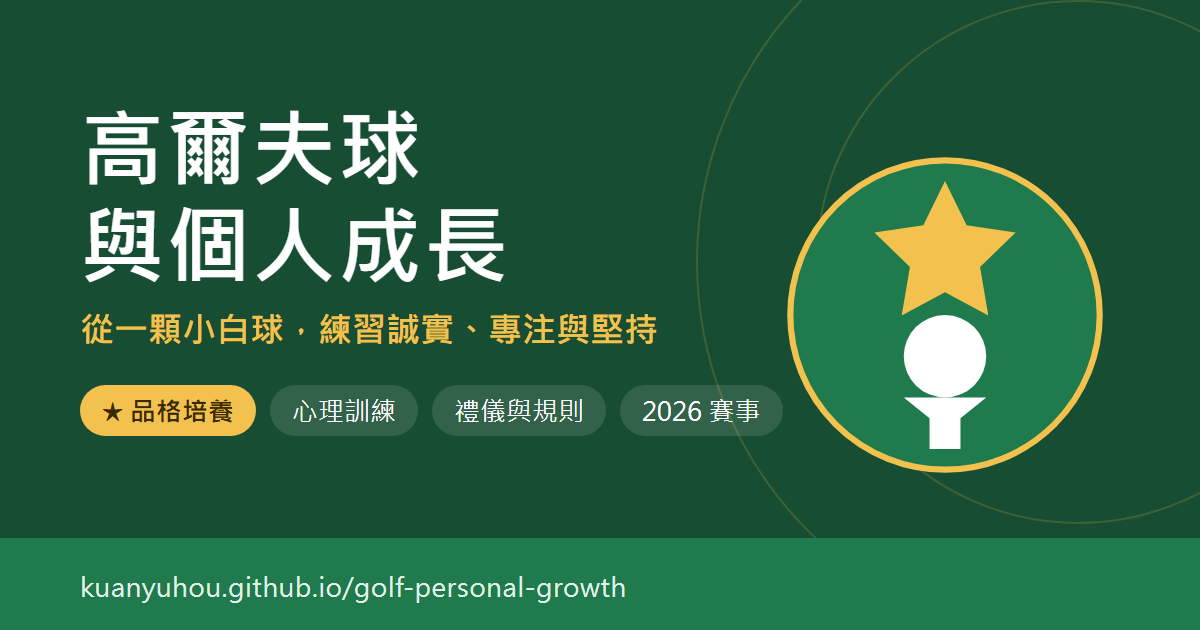
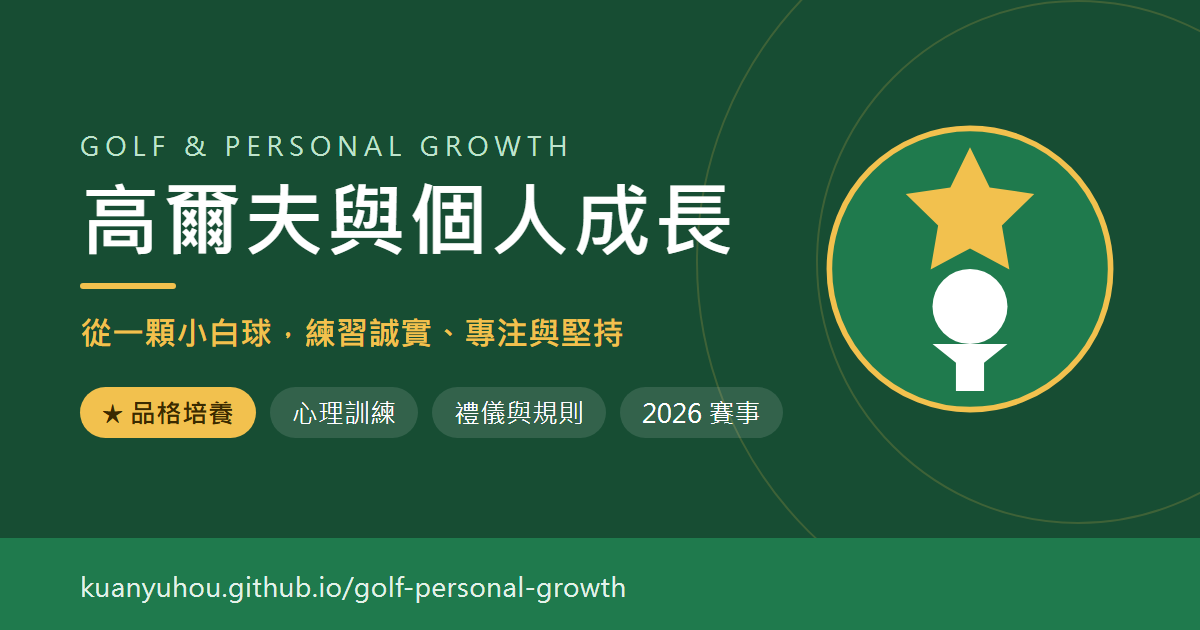
Retitle OG image to 高爾夫與個人成長 and re-layout

diff --git a/og/og.html b/og/og.html
@@ -14,15 +14,16 @@
   .r1 { width: 760px; height: 760px; right: -260px; top: -120px; }
   .r2 { width: 520px; height: 520px; right: -140px; top: 0; }
   .green { position: absolute; left: 0; right: 0; bottom: 0; height: 92px; background: #1f7a4d; }
-  .wrap { position: absolute; left: 80px; top: 70px; right: 80px; }
-  .icon { width: 132px; height: 132px; }
-  h1 { font-size: 84px; line-height: 1.15; margin: 28px 0 14px; letter-spacing: 2px; font-weight: 700; }
-  .tag { font-size: 34px; color: #f2c14e; margin: 0 0 34px; font-weight: 700; }
+  .wrap { position: absolute; left: 80px; top: 128px; right: 80px; }
+  .kicker { font-size: 26px; color: #bfe3cc; letter-spacing: 6px; margin: 0 0 6px; }
+  h1 { font-size: 80px; line-height: 1.2; margin: 0 0 18px; letter-spacing: 2px; font-weight: 700; white-space: nowrap; }
+  .bar { width: 96px; height: 6px; border-radius: 3px; background: #f2c14e; margin: 0 0 22px; }
+  .tag { font-size: 32px; color: #f2c14e; margin: 0 0 34px; font-weight: 700; }
   .pills { display: flex; gap: 14px; flex-wrap: wrap; }
   .pill { font-size: 26px; padding: 8px 22px; border-radius: 999px; background: rgba(255,255,255,.12); }
   .pill.star { background: #f2c14e; color: #3a2a00; font-weight: 700; }
   .url { position: absolute; left: 80px; bottom: 26px; font-size: 26px; color: #e3f2e9; letter-spacing: .5px; }
-  .big { position: absolute; right: 90px; top: 150px; width: 330px; height: 330px; }
+  .big { position: absolute; right: 80px; top: 119px; width: 300px; height: 300px; }
 </style>
 </head>
 <body>
@@ -30,7 +31,9 @@
   <div class="green"></div>
   <svg class="big" viewBox="0 0 64 64" aria-hidden="true"><circle cx="32" cy="32" r="30" fill="#1f7a4d" stroke="#f2c14e" stroke-width="1.2"/><path d="M32 6l4.2 8.6 9.5 1.4-6.9 6.7 1.6 9.4L32 27.6l-8.4 4.5 1.6-9.4-6.9-6.7 9.5-1.4z" fill="#f2c14e"/><circle cx="32" cy="40" r="8" fill="#fff"/><path d="M24 48h16l-5 4v6h-6v-6z" fill="#fff"/></svg>
   <div class="wrap">
-    <h1>高爾夫球<br>與個人成長</h1>
+    <p class="kicker">GOLF &amp; PERSONAL GROWTH</p>
+    <h1>高爾夫與個人成長</h1>
+    <div class="bar"></div>
     <p class="tag">從一顆小白球，練習誠實、專注與堅持</p>
     <div class="pills">
       <span class="pill star">★ 品格培養</span>

diff --git a/character.html b/character.html
@@ -12,14 +12,14 @@
 <meta property="og:title" content="高爾夫培養品格｜高爾夫球與個人成長">
 <meta property="og:description" content="高爾夫如何培養誠實、正直、尊重、責任感、自律、耐心與運動家精神，附職業球壇經典故事與家長指南。">
 <meta property="og:url" content="https://kuanyuhou.github.io/golf-personal-growth/character.html">
-<meta property="og:image" content="https://kuanyuhou.github.io/golf-personal-growth/og-image.png">
+<meta property="og:image" content="https://kuanyuhou.github.io/golf-personal-growth/og-image.png?v=2">
 <meta property="og:image:width" content="1200">
 <meta property="og:image:height" content="630">
-<meta property="og:image:alt" content="高爾夫球與個人成長：從一顆小白球，練習誠實、專注與堅持">
+<meta property="og:image:alt" content="高爾夫與個人成長：從一顆小白球，練習誠實、專注與堅持">
 <meta name="twitter:card" content="summary_large_image">
 <meta name="twitter:title" content="高爾夫培養品格｜高爾夫球與個人成長">
 <meta name="twitter:description" content="高爾夫如何培養誠實、正直、尊重、責任感、自律、耐心與運動家精神，附職業球壇經典故事與家長指南。">
-<meta name="twitter:image" content="https://kuanyuhou.github.io/golf-personal-growth/og-image.png">
+<meta name="twitter:image" content="https://kuanyuhou.github.io/golf-personal-growth/og-image.png?v=2">
 <link rel="stylesheet" href="style.css">
 </head>
 <body>

diff --git a/courses.html b/courses.html
@@ -12,14 +12,14 @@
 <meta property="og:title" content="各國高爾夫球場數量｜高爾夫球與個人成長">
 <meta property="og:description" content="台灣、日本、韓國、美國、中國大陸、越南、泰國、英國、澳洲、紐西蘭與馬來西亞的球場數量比較。">
 <meta property="og:url" content="https://kuanyuhou.github.io/golf-personal-growth/courses.html">
-<meta property="og:image" content="https://kuanyuhou.github.io/golf-personal-growth/og-image.png">
+<meta property="og:image" content="https://kuanyuhou.github.io/golf-personal-growth/og-image.png?v=2">
 <meta property="og:image:width" content="1200">
 <meta property="og:image:height" content="630">
-<meta property="og:image:alt" content="高爾夫球與個人成長：從一顆小白球，練習誠實、專注與堅持">
+<meta property="og:image:alt" content="高爾夫與個人成長：從一顆小白球，練習誠實、專注與堅持">
 <meta name="twitter:card" content="summary_large_image">
 <meta name="twitter:title" content="各國高爾夫球場數量｜高爾夫球與個人成長">
 <meta name="twitter:description" content="台灣、日本、韓國、美國、中國大陸、越南、泰國、英國、澳洲、紐西蘭與馬來西亞的球場數量比較。">
-<meta name="twitter:image" content="https://kuanyuhou.github.io/golf-personal-growth/og-image.png">
+<meta name="twitter:image" content="https://kuanyuhou.github.io/golf-personal-growth/og-image.png?v=2">
 <link rel="stylesheet" href="style.css">
 </head>
 <body>

diff --git a/formats.html b/formats.html
@@ -12,14 +12,14 @@
 <meta property="og:title" content="比桿賽、比洞賽與差點｜高爾夫球與個人成長">
 <meta property="og:description" content="比桿賽與比洞賽的規則差異、團體賽形式，以及世界差點系統和新新貝利亞制的計算方式。">
 <meta property="og:url" content="https://kuanyuhou.github.io/golf-personal-growth/formats.html">
-<meta property="og:image" content="https://kuanyuhou.github.io/golf-personal-growth/og-image.png">
+<meta property="og:image" content="https://kuanyuhou.github.io/golf-personal-growth/og-image.png?v=2">
 <meta property="og:image:width" content="1200">
 <meta property="og:image:height" content="630">
-<meta property="og:image:alt" content="高爾夫球與個人成長：從一顆小白球，練習誠實、專注與堅持">
+<meta property="og:image:alt" content="高爾夫與個人成長：從一顆小白球，練習誠實、專注與堅持">
 <meta name="twitter:card" content="summary_large_image">
 <meta name="twitter:title" content="比桿賽、比洞賽與差點｜高爾夫球與個人成長">
 <meta name="twitter:description" content="比桿賽與比洞賽的規則差異、團體賽形式，以及世界差點系統和新新貝利亞制的計算方式。">
-<meta name="twitter:image" content="https://kuanyuhou.github.io/golf-personal-growth/og-image.png">
+<meta name="twitter:image" content="https://kuanyuhou.github.io/golf-personal-growth/og-image.png?v=2">
 <link rel="stylesheet" href="style.css">
 </head>
 <body>

diff --git a/fitness.html b/fitness.html
@@ -12,14 +12,14 @@
 <meta property="og:title" content="熱身、營養與體能訓練｜高爾夫球與個人成長">
 <meta property="og:description" content="下場前的熱身、飲食補水、營養補充品，以及準備期的柔軟度、肌力與爆發力訓練。">
 <meta property="og:url" content="https://kuanyuhou.github.io/golf-personal-growth/fitness.html">
-<meta property="og:image" content="https://kuanyuhou.github.io/golf-personal-growth/og-image.png">
+<meta property="og:image" content="https://kuanyuhou.github.io/golf-personal-growth/og-image.png?v=2">
 <meta property="og:image:width" content="1200">
 <meta property="og:image:height" content="630">
-<meta property="og:image:alt" content="高爾夫球與個人成長：從一顆小白球，練習誠實、專注與堅持">
+<meta property="og:image:alt" content="高爾夫與個人成長：從一顆小白球，練習誠實、專注與堅持">
 <meta name="twitter:card" content="summary_large_image">
 <meta name="twitter:title" content="熱身、營養與體能訓練｜高爾夫球與個人成長">
 <meta name="twitter:description" content="下場前的熱身、飲食補水、營養補充品，以及準備期的柔軟度、肌力與爆發力訓練。">
-<meta name="twitter:image" content="https://kuanyuhou.github.io/golf-personal-growth/og-image.png">
+<meta name="twitter:image" content="https://kuanyuhou.github.io/golf-personal-growth/og-image.png?v=2">
 <link rel="stylesheet" href="style.css">
 </head>
 <body>

diff --git a/equipment.html b/equipment.html
@@ -12,14 +12,14 @@
 <meta property="og:title" content="球桿與高爾夫球｜高爾夫球與個人成長">
 <meta property="og:description" content="木桿、混血桿、鐵桿、挖起桿、推桿、桿身與握把，以及高爾夫球的規格、結構與選擇。">
 <meta property="og:url" content="https://kuanyuhou.github.io/golf-personal-growth/equipment.html">
-<meta property="og:image" content="https://kuanyuhou.github.io/golf-personal-growth/og-image.png">
+<meta property="og:image" content="https://kuanyuhou.github.io/golf-personal-growth/og-image.png?v=2">
 <meta property="og:image:width" content="1200">
 <meta property="og:image:height" content="630">
-<meta property="og:image:alt" content="高爾夫球與個人成長：從一顆小白球，練習誠實、專注與堅持">
+<meta property="og:image:alt" content="高爾夫與個人成長：從一顆小白球，練習誠實、專注與堅持">
 <meta name="twitter:card" content="summary_large_image">
 <meta name="twitter:title" content="球桿與高爾夫球｜高爾夫球與個人成長">
 <meta name="twitter:description" content="木桿、混血桿、鐵桿、挖起桿、推桿、桿身與握把，以及高爾夫球的規格、結構與選擇。">
-<meta name="twitter:image" content="https://kuanyuhou.github.io/golf-personal-growth/og-image.png">
+<meta name="twitter:image" content="https://kuanyuhou.github.io/golf-personal-growth/og-image.png?v=2">
 <link rel="stylesheet" href="style.css">
 </head>
 <body>

diff --git a/health.html b/health.html
@@ -12,14 +12,14 @@
 <meta property="og:title" content="身心益處、防曬與眼睛保護｜高爾夫球與個人成長">
 <meta property="og:description" content="高爾夫對身體、心理與社交的好處，以及防曬和眼睛保護的完整建議。">
 <meta property="og:url" content="https://kuanyuhou.github.io/golf-personal-growth/health.html">
-<meta property="og:image" content="https://kuanyuhou.github.io/golf-personal-growth/og-image.png">
+<meta property="og:image" content="https://kuanyuhou.github.io/golf-personal-growth/og-image.png?v=2">
 <meta property="og:image:width" content="1200">
 <meta property="og:image:height" content="630">
-<meta property="og:image:alt" content="高爾夫球與個人成長：從一顆小白球，練習誠實、專注與堅持">
+<meta property="og:image:alt" content="高爾夫與個人成長：從一顆小白球，練習誠實、專注與堅持">
 <meta name="twitter:card" content="summary_large_image">
 <meta name="twitter:title" content="身心益處、防曬與眼睛保護｜高爾夫球與個人成長">
 <meta name="twitter:description" content="高爾夫對身體、心理與社交的好處，以及防曬和眼睛保護的完整建議。">
-<meta name="twitter:image" content="https://kuanyuhou.github.io/golf-personal-growth/og-image.png">
+<meta name="twitter:image" content="https://kuanyuhou.github.io/golf-personal-growth/og-image.png?v=2">
 <link rel="stylesheet" href="style.css">
 </head>
 <body>

diff --git a/mental.html b/mental.html
@@ -12,14 +12,14 @@
 <meta property="og:title" content="高爾夫心理訓練｜高爾夫球與個人成長">
 <meta property="og:description" content="擊球前例行程序、呼吸法、意象訓練、自我對話、壓力管理與每週心理訓練計畫。">
 <meta property="og:url" content="https://kuanyuhou.github.io/golf-personal-growth/mental.html">
-<meta property="og:image" content="https://kuanyuhou.github.io/golf-personal-growth/og-image.png">
+<meta property="og:image" content="https://kuanyuhou.github.io/golf-personal-growth/og-image.png?v=2">
 <meta property="og:image:width" content="1200">
 <meta property="og:image:height" content="630">
-<meta property="og:image:alt" content="高爾夫球與個人成長：從一顆小白球，練習誠實、專注與堅持">
+<meta property="og:image:alt" content="高爾夫與個人成長：從一顆小白球，練習誠實、專注與堅持">
 <meta name="twitter:card" content="summary_large_image">
 <meta name="twitter:title" content="高爾夫心理訓練｜高爾夫球與個人成長">
 <meta name="twitter:description" content="擊球前例行程序、呼吸法、意象訓練、自我對話、壓力管理與每週心理訓練計畫。">
-<meta name="twitter:image" content="https://kuanyuhou.github.io/golf-personal-growth/og-image.png">
+<meta name="twitter:image" content="https://kuanyuhou.github.io/golf-personal-growth/og-image.png?v=2">
 <link rel="stylesheet" href="style.css">
 </head>
 <body>

diff --git a/turf.html b/turf.html
@@ -12,14 +12,14 @@
 <meta property="og:title" content="球場草種與南部球場｜高爾夫球與個人成長">
 <meta property="og:description" content="冷季草與暖季草、各區域常見草種，以及台灣南部各球場的果嶺草種整理。">
 <meta property="og:url" content="https://kuanyuhou.github.io/golf-personal-growth/turf.html">
-<meta property="og:image" content="https://kuanyuhou.github.io/golf-personal-growth/og-image.png">
+<meta property="og:image" content="https://kuanyuhou.github.io/golf-personal-growth/og-image.png?v=2">
 <meta property="og:image:width" content="1200">
 <meta property="og:image:height" content="630">
-<meta property="og:image:alt" content="高爾夫球與個人成長：從一顆小白球，練習誠實、專注與堅持">
+<meta property="og:image:alt" content="高爾夫與個人成長：從一顆小白球，練習誠實、專注與堅持">
 <meta name="twitter:card" content="summary_large_image">
 <meta name="twitter:title" content="球場草種與南部球場｜高爾夫球與個人成長">
 <meta name="twitter:description" content="冷季草與暖季草、各區域常見草種，以及台灣南部各球場的果嶺草種整理。">
-<meta name="twitter:image" content="https://kuanyuhou.github.io/golf-personal-growth/og-image.png">
+<meta name="twitter:image" content="https://kuanyuhou.github.io/golf-personal-growth/og-image.png?v=2">
 <link rel="stylesheet" href="style.css">
 </head>
 <body>

diff --git a/index.html b/index.html
@@ -12,14 +12,14 @@
 <meta property="og:title" content="高爾夫球與個人成長">
 <meta property="og:description" content="高爾夫球入門、品格培養、心理訓練、禮儀、規則、裝備、健康與 2026 年賽事資訊的完整整理。">
 <meta property="og:url" content="https://kuanyuhou.github.io/golf-personal-growth/">
-<meta property="og:image" content="https://kuanyuhou.github.io/golf-personal-growth/og-image.png">
+<meta property="og:image" content="https://kuanyuhou.github.io/golf-personal-growth/og-image.png?v=2">
 <meta property="og:image:width" content="1200">
 <meta property="og:image:height" content="630">
-<meta property="og:image:alt" content="高爾夫球與個人成長：從一顆小白球，練習誠實、專注與堅持">
+<meta property="og:image:alt" content="高爾夫與個人成長：從一顆小白球，練習誠實、專注與堅持">
 <meta name="twitter:card" content="summary_large_image">
 <meta name="twitter:title" content="高爾夫球與個人成長">
 <meta name="twitter:description" content="高爾夫球入門、品格培養、心理訓練、禮儀、規則、裝備、健康與 2026 年賽事資訊的完整整理。">
-<meta name="twitter:image" content="https://kuanyuhou.github.io/golf-personal-growth/og-image.png">
+<meta name="twitter:image" content="https://kuanyuhou.github.io/golf-personal-growth/og-image.png?v=2">
 <link rel="stylesheet" href="style.css">
 </head>
 <body>

diff --git a/etiquette.html b/etiquette.html
@@ -12,14 +12,14 @@
 <meta property="og:title" content="服裝、帽子與時間禮儀｜高爾夫球與個人成長">
 <meta property="og:description" content="高爾夫服裝禮儀、帽子選擇，以及準時與打球速度的時間禮儀。">
 <meta property="og:url" content="https://kuanyuhou.github.io/golf-personal-growth/etiquette.html">
-<meta property="og:image" content="https://kuanyuhou.github.io/golf-personal-growth/og-image.png">
+<meta property="og:image" content="https://kuanyuhou.github.io/golf-personal-growth/og-image.png?v=2">
 <meta property="og:image:width" content="1200">
 <meta property="og:image:height" content="630">
-<meta property="og:image:alt" content="高爾夫球與個人成長：從一顆小白球，練習誠實、專注與堅持">
+<meta property="og:image:alt" content="高爾夫與個人成長：從一顆小白球，練習誠實、專注與堅持">
 <meta name="twitter:card" content="summary_large_image">
 <meta name="twitter:title" content="服裝、帽子與時間禮儀｜高爾夫球與個人成長">
 <meta name="twitter:description" content="高爾夫服裝禮儀、帽子選擇，以及準時與打球速度的時間禮儀。">
-<meta name="twitter:image" content="https://kuanyuhou.github.io/golf-personal-growth/og-image.png">
+<meta name="twitter:image" content="https://kuanyuhou.github.io/golf-personal-growth/og-image.png?v=2">
 <link rel="stylesheet" href="style.css">
 </head>
 <body>

diff --git a/tours.html b/tours.html
@@ -12,14 +12,14 @@
 <meta property="og:title" content="2026 年職業賽事｜高爾夫球與個人成長">
 <meta property="og:description" content="2026 年 TPGA、TLPGA、LPGA、PGA Tour、DP World Tour 與亞洲巡迴賽的賽程與重點。">
 <meta property="og:url" content="https://kuanyuhou.github.io/golf-personal-growth/tours.html">
-<meta property="og:image" content="https://kuanyuhou.github.io/golf-personal-growth/og-image.png">
+<meta property="og:image" content="https://kuanyuhou.github.io/golf-personal-growth/og-image.png?v=2">
 <meta property="og:image:width" content="1200">
 <meta property="og:image:height" content="630">
-<meta property="og:image:alt" content="高爾夫球與個人成長：從一顆小白球，練習誠實、專注與堅持">
+<meta property="og:image:alt" content="高爾夫與個人成長：從一顆小白球，練習誠實、專注與堅持">
 <meta name="twitter:card" content="summary_large_image">
 <meta name="twitter:title" content="2026 年職業賽事｜高爾夫球與個人成長">
 <meta name="twitter:description" content="2026 年 TPGA、TLPGA、LPGA、PGA Tour、DP World Tour 與亞洲巡迴賽的賽程與重點。">
-<meta name="twitter:image" content="https://kuanyuhou.github.io/golf-personal-growth/og-image.png">
+<meta name="twitter:image" content="https://kuanyuhou.github.io/golf-personal-growth/og-image.png?v=2">
 <link rel="stylesheet" href="style.css">
 </head>
 <body>
